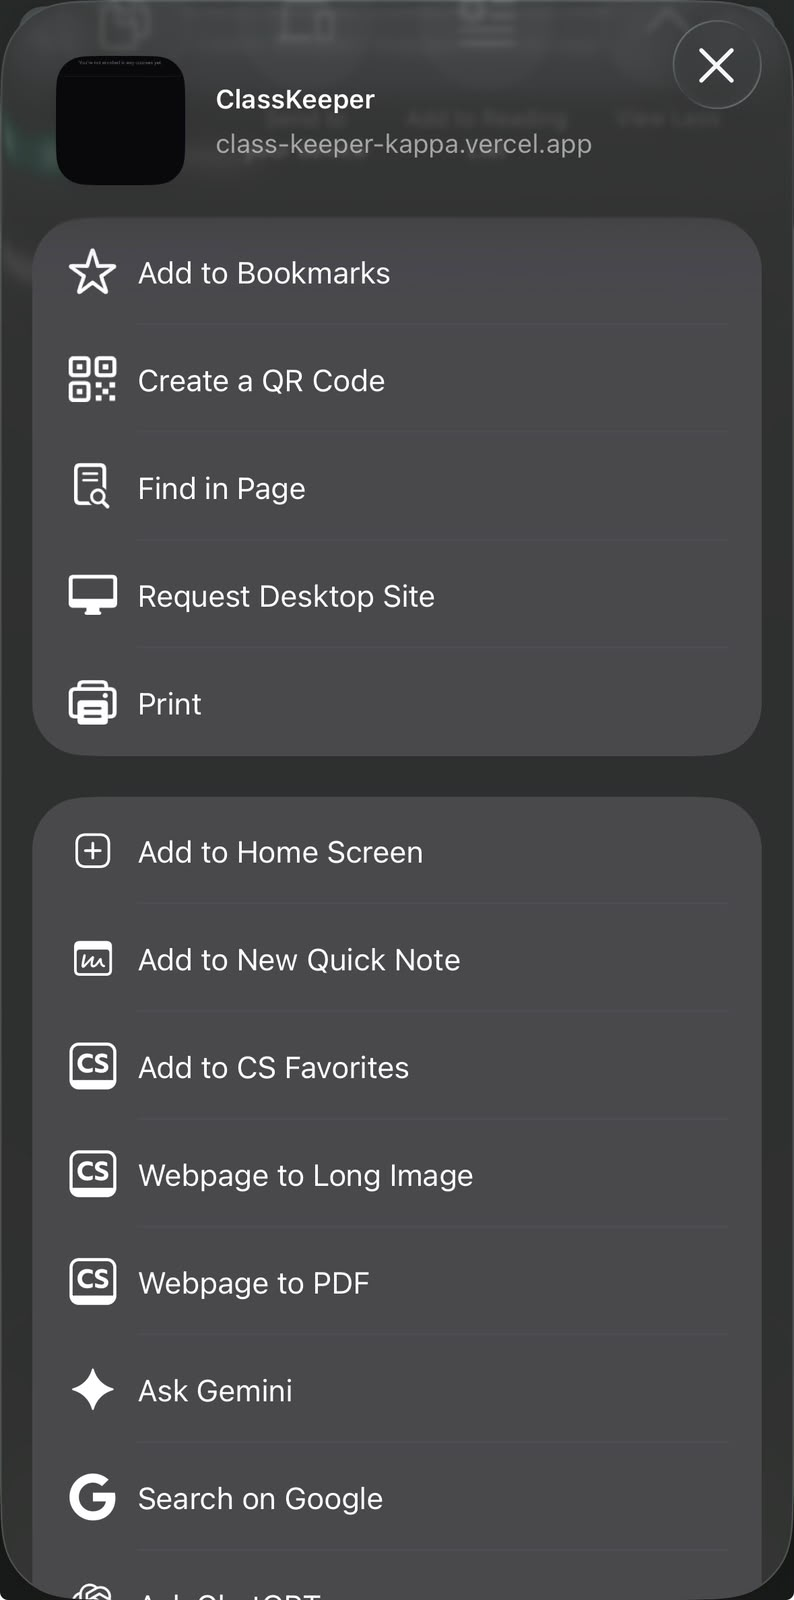
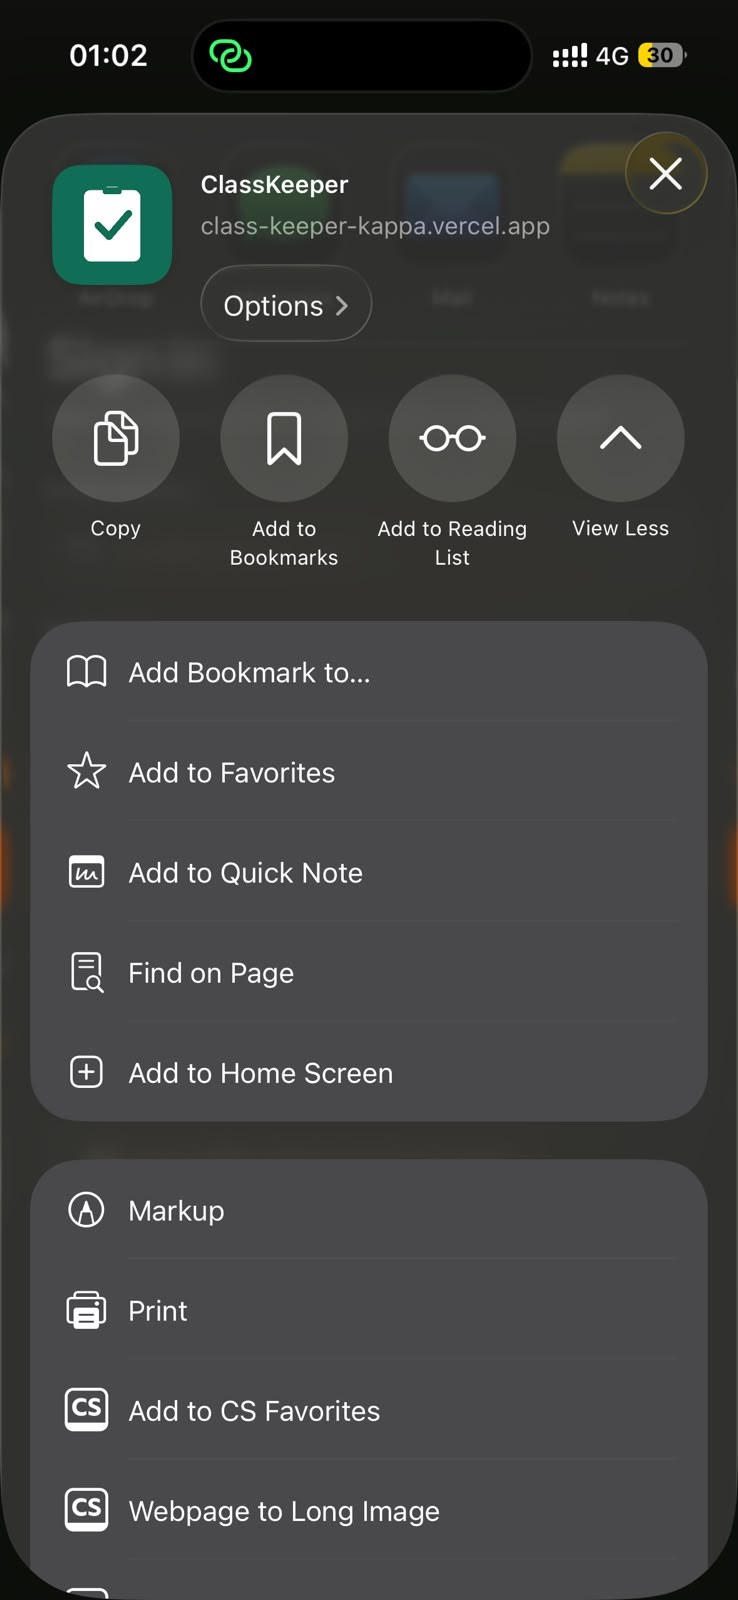
new images for ios instruction on install app

diff --git a/src/components/InstallGuide.tsx b/src/components/InstallGuide.tsx
@@ -8,33 +8,97 @@ import s from "./InstallGuide.module.scss";
 
 type Platform = "ios" | "android";
 
-interface Step {
-  key: string; // translation key under "install"
+interface Marker {
+  /** Centre of the ring, as a percentage of the screenshot. */
+  x: number;
+  y: number;
+  /** A wider pill-shaped ring, for highlighting a switch. */
+  pill?: boolean;
+}
+
+interface Shot {
   image: string;
   width: number;
   height: number;
-  /** Where the tap-here marker goes, as a percentage of the screenshot. */
-  marker?: { x: number; y: number };
+  /** Translation key (under "install") for a label above this screenshot. */
+  caption?: string;
+  markers?: Marker[];
+}
+
+interface Step {
+  key: string; // translation key under "install"
+  shots: Shot[];
 }
 
 // Real screenshots of ClassKeeper, in /public/install. Marker positions point
-// at the control to tap in each one. On Android, Chrome's own Install prompt
-// is used when available (see InstallProvider); these steps are the manual
-// path for when it isn't, ending with what you'll see after installing.
+// at the control to tap (or the setting to check) in each one. On Android,
+// Chrome's own Install prompt is used when available (see InstallProvider);
+// these steps are the manual path for when it isn't, ending with what you'll
+// see after installing.
 const STEPS: Record<Platform, Step[]> = {
   ios: [
-    { key: "ios1", image: "ios-share", width: 1178, height: 304, marker: { x: 79.8, y: 23 } },
-    { key: "ios2", image: "ios-view-more", width: 1125, height: 823, marker: { x: 84.4, y: 63.2 } },
-    { key: "ios3", image: "ios-add-to-home", width: 794, height: 1600, marker: { x: 38, y: 53.3 } },
-    { key: "ios4", image: "ios-add", width: 1179, height: 1004, marker: { x: 87.8, y: 11.8 } },
+    {
+      key: "ios1",
+      shots: [
+        {
+          image: "ios-share",
+          width: 1178,
+          height: 304,
+          caption: "iosChrome",
+          markers: [{ x: 79.8, y: 23 }],
+        },
+        {
+          image: "ios-safari-share",
+          width: 738,
+          height: 1600,
+          caption: "iosSafari",
+          markers: [{ x: 49.5, y: 64.1 }],
+        },
+      ],
+    },
+    {
+      key: "ios2",
+      shots: [{ image: "ios-view-more", width: 1125, height: 823, markers: [{ x: 84.4, y: 63.2 }] }],
+    },
+    {
+      key: "ios3",
+      shots: [{ image: "ios-add-to-home", width: 738, height: 1600, markers: [{ x: 35.2, y: 67.1 }] }],
+    },
+    {
+      key: "ios4",
+      shots: [
+        {
+          image: "ios-add",
+          width: 1179,
+          height: 1004,
+          // The "Open as Web App" switch first, then the Add button.
+          markers: [
+            { x: 87.8, y: 74.7, pill: true },
+            { x: 87.8, y: 11.8 },
+          ],
+        },
+      ],
+    },
   ],
   android: [
-    { key: "androidMenu", image: "android-menu", width: 720, height: 1650, marker: { x: 82, y: 80.4 } },
-    { key: "androidSheet", image: "android-add-sheet", width: 720, height: 1650, marker: { x: 85, y: 78.8 } },
-    { key: "androidConfirm", image: "android-install-dialog", width: 720, height: 1650, marker: { x: 80.8, y: 59.8 } },
-    { key: "androidSecurity", image: "android-security", width: 720, height: 1650 },
-    { key: "androidIcon", image: "android-icon", width: 720, height: 1650, marker: { x: 15, y: 9.5 } },
-    { key: "androidOpen", image: "android-app", width: 720, height: 1650 },
+    {
+      key: "androidMenu",
+      shots: [{ image: "android-menu", width: 720, height: 1650, markers: [{ x: 82, y: 80.4 }] }],
+    },
+    {
+      key: "androidSheet",
+      shots: [{ image: "android-add-sheet", width: 720, height: 1650, markers: [{ x: 85, y: 78.8 }] }],
+    },
+    {
+      key: "androidConfirm",
+      shots: [{ image: "android-install-dialog", width: 720, height: 1650, markers: [{ x: 80.8, y: 59.8 }] }],
+    },
+    { key: "androidSecurity", shots: [{ image: "android-security", width: 720, height: 1650 }] },
+    {
+      key: "androidIcon",
+      shots: [{ image: "android-icon", width: 720, height: 1650, markers: [{ x: 15, y: 9.5 }] }],
+    },
+    { key: "androidOpen", shots: [{ image: "android-app", width: 720, height: 1650 }] },
   ],
 };
 
@@ -77,42 +141,45 @@ export function InstallGuide() {
       </div>
 
       <ol className={s.steps}>
-        {steps.map((step, i) => {
-          const portrait = step.height / step.width > 1.2;
-          return (
-            <li key={step.key} className={s.step}>
-              <div className={s.stepHead}>
-                <span className={s.pill}>{t("stepLabel", { n: i + 1 })}</span>
-                <h3>{t(step.key)}</h3>
-              </div>
+        {steps.map((step, i) => (
+          <li key={step.key} className={s.step}>
+            <div className={s.stepHead}>
+              <span className={s.pill}>{t("stepLabel", { n: i + 1 })}</span>
+              <h3>{t(step.key)}</h3>
+            </div>
 
-              <figure className={`${s.shot} ${portrait ? s.portrait : ""}`}>
-                <Image
-                  src={`/install/${step.image}.jpg`}
-                  alt=""
-                  width={step.width}
-                  height={step.height}
-                  sizes="(max-width: 640px) 90vw, 24rem"
-                />
-                {step.marker && (
-                  <span
-                    className={s.marker}
-                    aria-hidden
-                    // Grid placement: left in % of the width; top in % of the
-                    // width too (CSS margins resolve against width), hence the
-                    // aspect-ratio conversion.
-                    style={{
-                      marginLeft: `${step.marker.x}%`,
-                      marginTop: `${(step.marker.y * step.height) / step.width}%`,
-                    }}
-                  >
-                    <span className={s.ring} />
-                  </span>
-                )}
-              </figure>
-            </li>
-          );
-        })}
+            {step.shots.map((shot) => (
+              <div key={shot.image} className={s.shotWrap}>
+                {shot.caption && <p className={s.caption}>{t(shot.caption)}</p>}
+                <figure className={`${s.shot} ${shot.height / shot.width > 1.2 ? s.portrait : ""}`}>
+                  <Image
+                    src={`/install/${shot.image}.jpg`}
+                    alt=""
+                    width={shot.width}
+                    height={shot.height}
+                    sizes="(max-width: 640px) 90vw, 24rem"
+                  />
+                  {shot.markers?.map((marker) => (
+                    <span
+                      key={`${marker.x}-${marker.y}`}
+                      className={`${s.marker} ${marker.pill ? s.wide : ""}`}
+                      aria-hidden
+                      // Grid placement: left in % of the width; top in % of the
+                      // width too (CSS margins resolve against width), hence the
+                      // aspect-ratio conversion.
+                      style={{
+                        marginLeft: `${marker.x}%`,
+                        marginTop: `${(marker.y * shot.height) / shot.width}%`,
+                      }}
+                    >
+                      <span className={s.ring} />
+                    </span>
+                  ))}
+                </figure>
+              </div>
+            ))}
+          </li>
+        ))}
       </ol>
 
       <p className={s.note}>{t(`${platform}Note`)}</p>

diff --git a/src/components/InstallBanner.tsx b/src/components/InstallBanner.tsx
@@ -1,68 +1,42 @@
 "use client";
 
-import { useState, useSyncExternalStore } from "react";
+import { useSyncExternalStore } from "react";
 import Image from "next/image";
 import { usePathname } from "next/navigation";
 import { useTranslations } from "next-intl";
-import { X } from "lucide-react";
 import { useInstall } from "@/components/InstallProvider";
 import s from "./InstallBanner.module.scss";
 
-const DISMISSED_KEY = "installBannerDismissed";
-
 const noSubscribe = () => () => {};
 
-// Already installed (opened from the home screen) or dismissed earlier.
-function eligible(): boolean {
-  const installed =
+// Running as the installed app (opened from the home screen). This is the only
+// state we can actually detect: a browser tab can't tell whether the app is
+// also installed on the phone, so the banner is otherwise always shown.
+function runningAsInstalledApp(): boolean {
+  return (
     window.matchMedia("(display-mode: standalone)").matches ||
-    (navigator as Navigator & { standalone?: boolean }).standalone === true;
-  if (installed) return false;
-  try {
-    return localStorage.getItem(DISMISSED_KEY) !== "1";
-  } catch {
-    return true; // storage blocked (private mode): just show the bar
-  }
+    (navigator as Navigator & { standalone?: boolean }).standalone === true
+  );
 }
 
 export function InstallBanner() {
   const t = useTranslations("install");
   const tCommon = useTranslations("common");
   const pathname = usePathname();
-  const canShow = useSyncExternalStore(noSubscribe, eligible, () => false);
+  const isInstalledApp = useSyncExternalStore(noSubscribe, runningAsInstalledApp, () => true);
   const { install } = useInstall();
-  const [dismissed, setDismissed] = useState(false);
-  const visible = canShow && !dismissed;
 
-  if (!visible || pathname === "/install") return null;
-
-  function dismiss() {
-    try {
-      localStorage.setItem(DISMISSED_KEY, "1");
-    } catch {
-      // not persisted — it will reappear next visit
-    }
-    setDismissed(true);
-  }
+  // No server render (true on the server) so it can't flash inside the installed app.
+  if (isInstalledApp || pathname === "/install") return null;
 
   return (
     <div className={s.banner}>
-      <button type="button" onClick={dismiss} aria-label={t("bannerClose")} className={s.close}>
-        <X size={16} aria-hidden />
-      </button>
       <Image src="/icon-512.png" alt="" width={40} height={40} className={s.icon} />
       <div className={s.text}>
         <strong>{tCommon("appName")}</strong>
         <span>{t("bannerTagline")}</span>
       </div>
-      <button
-        type="button"
-        onClick={() => {
-          setDismissed(true); // out of the way while the prompt / guide is up (this visit only)
-          install();
-        }}
-        className={s.install}
-      >
+      <button type="button" onClick={install} className={s.install}>
         {t("bannerInstall")}
       </button>
     </div>

diff --git a/src/components/InstallGuide.module.scss b/src/components/InstallGuide.module.scss
@@ -62,6 +62,19 @@
   gap: 0.75rem;
 }
 
+.shotWrap {
+  display: flex;
+  flex-direction: column;
+  gap: 0.375rem;
+}
+
+.caption {
+  font-size: 0.8125rem;
+  line-height: 1.125rem;
+  font-weight: 600;
+  color: var(--text-label);
+}
+
 .stepHead {
   display: flex;
   align-items: center;
@@ -130,6 +143,12 @@
 
   > * {
     grid-area: 1 / 1;
+  }
+
+  // Wider, to ring a switch rather than a button.
+  &.wide {
+    width: 4.5rem;
+    height: 2.75rem;
   }
 }
 

diff --git a/src/components/InstallBanner.module.scss b/src/components/InstallBanner.module.scss
@@ -19,18 +19,6 @@
   }
 }
 
-.close {
-  flex-shrink: 0;
-  border-radius: 0.375rem;
-  padding: 0.25rem;
-  color: var(--text-muted);
-
-  &:hover {
-    background: var(--bg-muted);
-    color: var(--text);
-  }
-}
-
 .icon {
   flex-shrink: 0;
   border-radius: 0.625rem;
